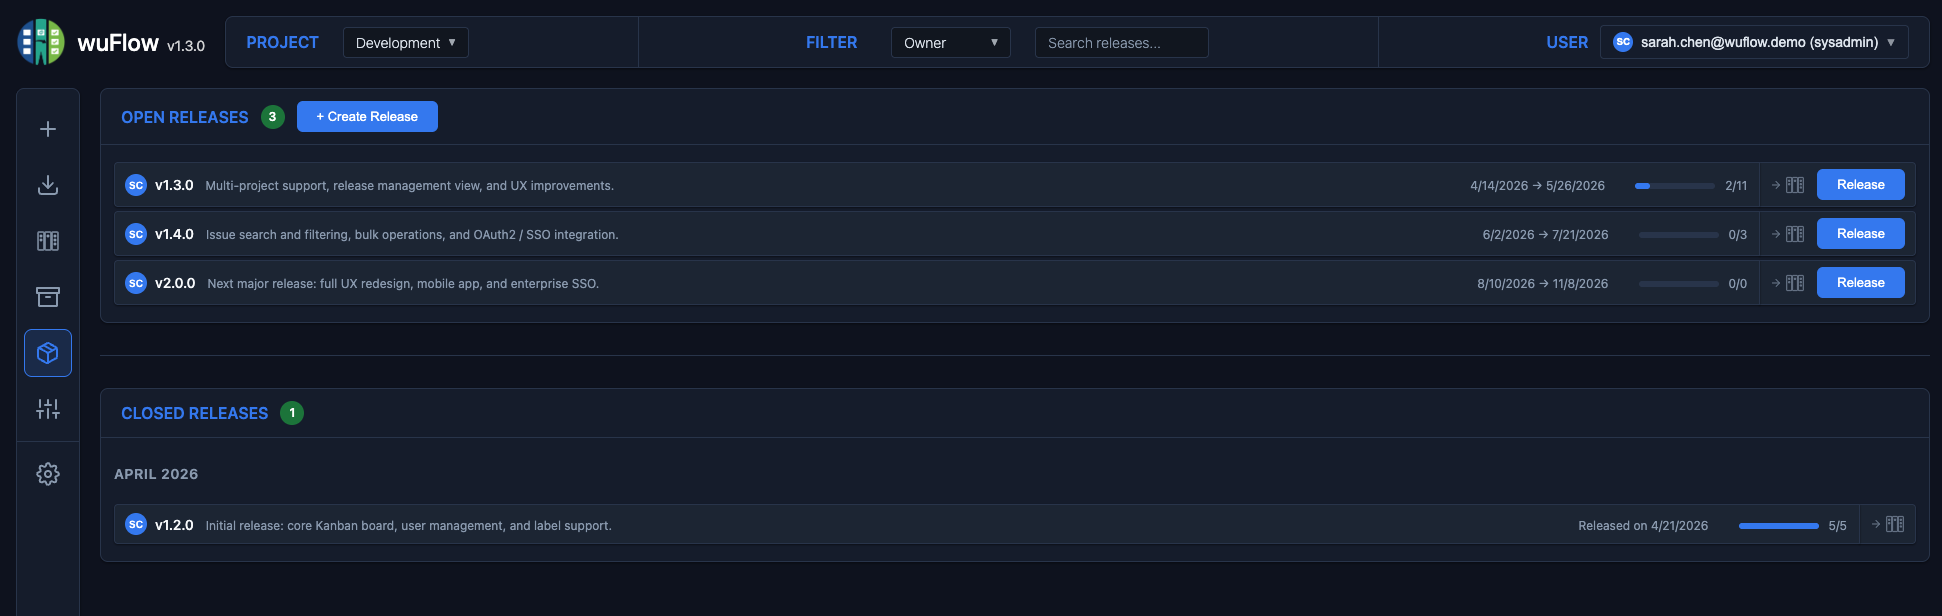
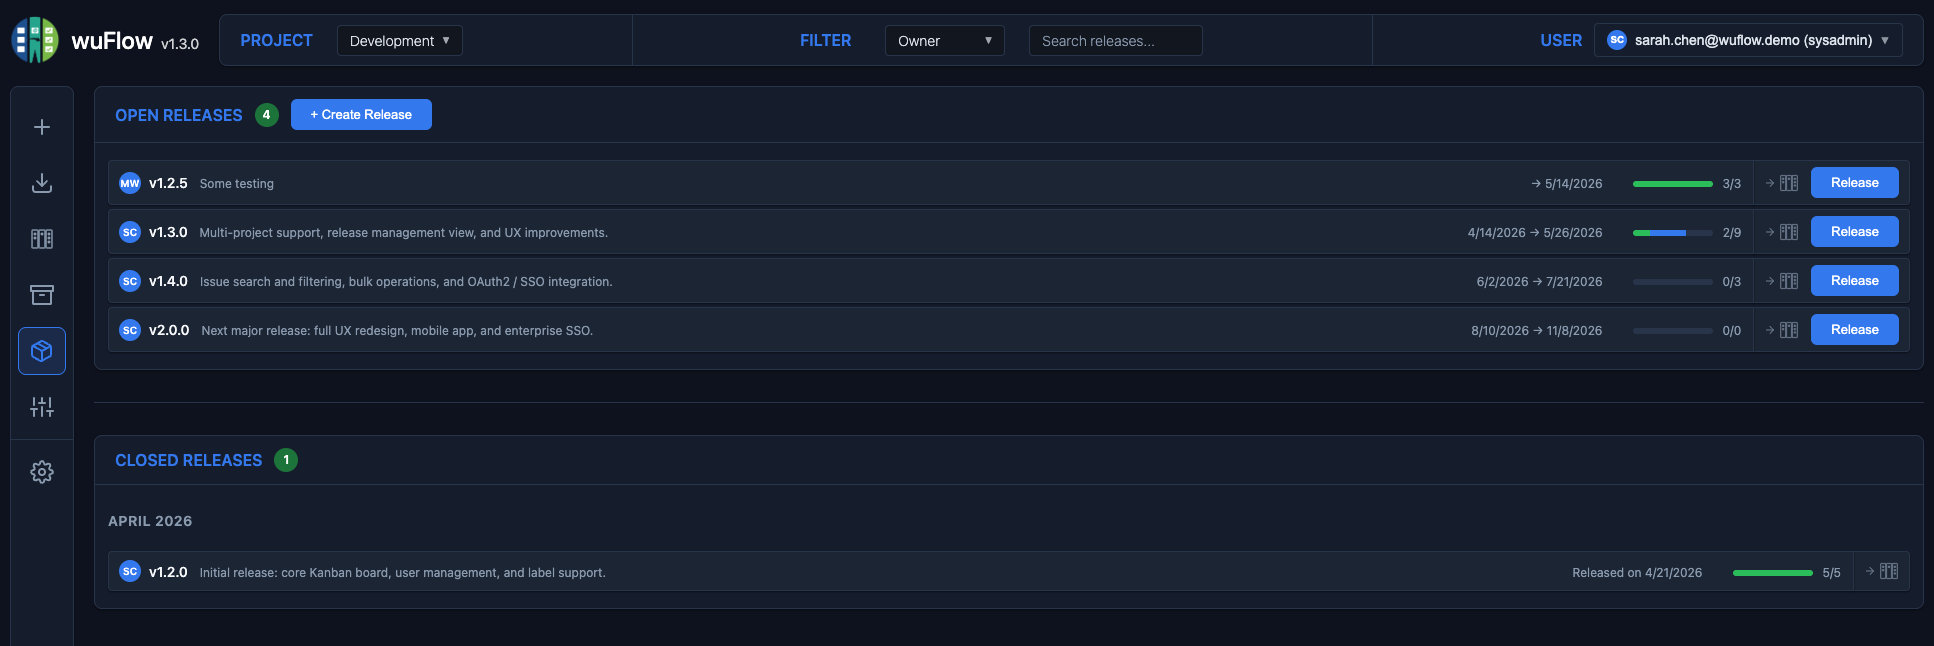
feat(release): Improved the issue status bar per release

diff --git a/static/js/components/releases.js b/static/js/components/releases.js
@@ -416,7 +416,9 @@ function buildReleaseRow(rel, isOpen, allIssues) {
   const issues = allIssues.filter(i => i.release_id === rel.id);
   const total = issues.length;
   const done = issues.filter(i => i.status === 'Done' || i.status === 'Archive').length;
-  const pct = total > 0 ? Math.round((done / total) * 100) : 0;
+  const inProgress = issues.filter(i => ['Stage1','Stage2','Stage3','Stage4'].includes(i.status)).length;
+  const donePct = total > 0 ? Math.round((done / total) * 100) : 0;
+  const inProgPct = total > 0 ? Math.round((inProgress / total) * 100) : 0;
 
   const triggerHtml = isOpen && userCan(state.currentUser, ACTION_TRIGGER_RELEASE)
     ? `<button class="btn primary btn--sm release-trigger-btn" data-id="${rel.id}">Release</button>`
@@ -441,7 +443,10 @@ function buildReleaseRow(rel, isOpen, allIssues) {
         </div>
         <div class="backlog-card-right">
           ${datesHtml}
-          <div class="release-progress-bar"><div class="release-progress-fill" style="width:${pct}%"></div></div>
+          <div class="release-progress-bar">
+            <div class="release-progress-seg seg-done" style="width:${donePct}%"></div>
+            <div class="release-progress-seg seg-inprogress" style="width:${inProgPct}%"></div>
+          </div>
           <span class="release-count">${done}/${total}</span>
         </div>
       </div>

diff --git a/static/styles/pages/releases.css b/static/styles/pages/releases.css
@@ -196,6 +196,7 @@
 }
 
 .release-progress-bar {
+    display: flex;
     width: 80px;
     height: 6px;
     background-color: var(--card-border);
@@ -204,11 +205,17 @@
     margin-left: 20px;
 }
 
-.release-progress-fill {
+.release-progress-seg {
     height: 100%;
-    background-color: var(--primary-color);
-    border-radius: 3px;
     transition: width 0.3s ease;
+}
+
+.seg-done {
+    background-color: var(--success-color, #4caf77);
+}
+
+.seg-inprogress {
+    background-color: var(--primary-color);
 }
 
 

diff --git a/docs/usage-guide.md b/docs/usage-guide.md
@@ -50,12 +50,16 @@ An issue is a discrete unit of work that tracks a specific task, bug, or require
 
 ### Status and Lifecycle of an Issue
 The scheme is borrowed from the way how Jira handles issues, but simplified. The board column names are configurable per project in the Project Settings view.
-- An issue can have one of the following statuses: **OPEN, TODO, the configured board columns (default: PENDING, WORKING), DONE, ARCHIVED**. 
+- An issue can have one of the following statuses: **OPEN, TODO, the max. 4 configured board columns (default: PENDING, WORKING), DONE, ARCHIVED**. 
 - When an issue is created, it gets normally the **status OPEN and is placed in the Backlog**.
 - The Backlog view allows to organize the backlog (see below) and to **move selected issues from the Backlog to the current board** by changing the status from OPEN to TODO. 
-- On the Board, **only issues with status TODO, the configured board columns, and DONE are shown**. Drag the issues from left to right according to the progress of work.
+- On the Board, **only issues with status TODO, the max. 4 configured board columns, and DONE are shown**. Drag the issues from left to right according to the progress of work.
 - There will be a time, when too many issues are piling up in the DONE column. Then it's time to archive them. This is done in the **Archive view** (see below), where you can drag selected issues from the DONE to the ARCHIVE area. Issues can also be archived in the issue details view.
 - When an issue is **archived**, it's still there but **can't be edited anymore**. Users owning the Admin or Sysadmin role can Unarchive issues in special cases.
+- Issue states are assigned to the following categories. These categories are used to show the progress in the releases view:
+  * Not Started: Open, Todo
+  * In Progress: Max. 4 configurable columns (default: Pending, Working)
+  * Done: Done, Archived
 
 ### Creating Issues
 Click the **New Issue** button (plus sign) in the main menu to create a new issue. Each issue contains:
@@ -164,9 +168,6 @@ Archived issues are read-only. Users owning the Admin or Sysadmin role are entit
 Releases let you group issues into named, time-boxed deliveries and track their progress. The Releases view is accessible from the main menu and shows open releases at the top and closed (published) releases below a divider.
 
 ### Release Properties
-
-<img src="screenshots/release-details.png" alt="Release Details" width="300" align="right" style="margin-left: 20px; margin-bottom: 20px;">
-
 Each release has:
 - **Name**: A short identifier for the release (max 20 characters, required).
 - **Description**: An optional plain-text summary (max 200 characters).
@@ -175,9 +176,12 @@ Each release has:
 - **Owner**: An optional user responsible for the release. Shown as a user badge on the release card.
 
 ### The Release Card
-Each release is represented as a card in the list showing the release name, optional start and release dates, the owner badge (if set), and key progress information: the total number of assigned issues and a progress bar indicating how many of them are in Done status. Clicking on the card itself opens the release details modal, where the release properties can be viewed and edited (Admin/Sysadmin only) and the full list of assigned issues with their current statuses is shown. The card also provides two action buttons: a **Board** button that navigates directly to the board filtered by that release, and a **Release** button to publish the release (Admin/Sysadmin only).
+Each release is represented as a card in the list showing the release name, optional start and release dates, the owner badge (if set), and key progress information: the number of done vs. total assigned issues and a tri-state progress bar that visualises all three status categories — green for done, blue for issues actively being worked on (any configured stage column), and grey for issues not yet started. Clicking on the card itself opens the release details modal, where the release properties can be viewed and edited (Admin/Sysadmin only) and the full list of assigned issues with their current statuses is shown. The card also provides two action buttons: a **Board** button that navigates directly to the board filtered by that release, and a **Release** button to publish the release (Admin/Sysadmin only).
 
 ### Managing Releases
+
+<img src="screenshots/release-details.png" alt="Release Details" width="300" align="right" style="margin-left: 20px; margin-bottom: 20px;">
+
 Users with Admin or Sysadmin role can:
 - **Create** a release by clicking **+ Create Release** in the Open Releases section.
 - **View and Edit** an open release by clicking on its card. This opens the release details view including an overview of assigned issues and their status.
